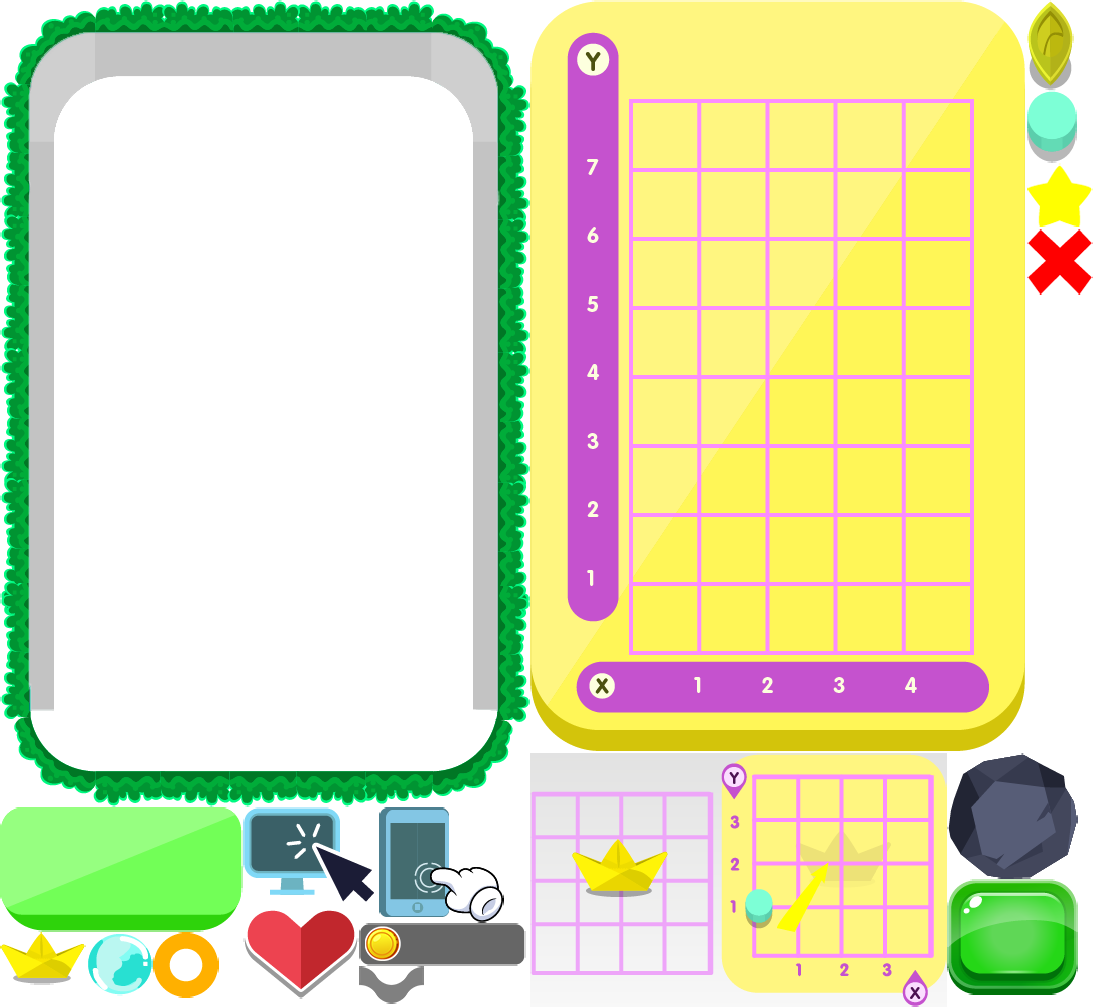
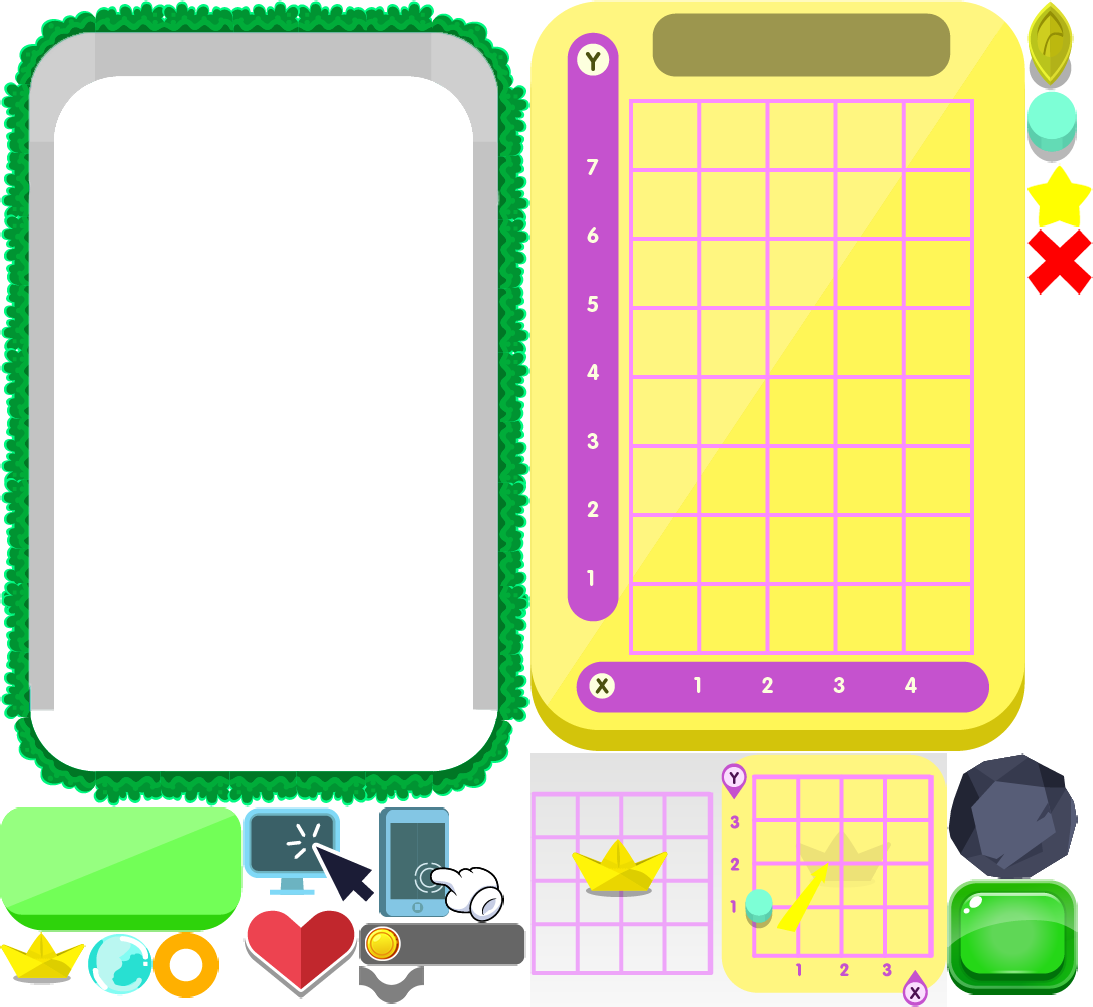
changes updated

Changed region(s): [[0.591, 0.0, 0.871, 0.0924]]

diff --git a/nonrefactored/paperShips/paperShips/js/scenes/paper.js b/nonrefactored/paperShips/paperShips/js/scenes/paper.js
@@ -663,6 +663,7 @@ var paper = function(){
 		var hide = game.add.tween(boardGroup).to({y:-game.world.height * 0.5}, 1200, Phaser.Easing.Cubic.Out, true, 300)
 		game.add.tween(boardGroup.alphaRect).to({alpha:0}, 1200, Phaser.Easing.Cubic.Out, true, 600)
 		hide.onComplete.add(startShoots)
+		boardGroup.text.alpha = 0
 	}
 	
 	function resetObject(object) {
@@ -684,6 +685,24 @@ var paper = function(){
 		game.add.tween(buttonGroup).to({alpha:0}, 500, Phaser.Easing.Cubic.Out, true)
 	}
 	
+	function showNumber(x, y) {
+		var cordText = boardGroup.text
+
+		var cordString = "(" + x + " , " + y + ")"
+		cordText.text = cordString
+
+		if(cordText.tween1){
+			cordText.tween1.stop()
+		}
+		if(cordText.tween2){
+			cordText.tween2.stop()
+		}
+		cordText.alpha = 0
+		cordText.scale.x = 1; cordText.scale.y = 1
+		cordText.tween1 = game.add.tween(cordText.scale).to({x:1.2, y:1.2}, 300, Phaser.Easing.Cubic.Out, true).yoyo(true)
+		cordText.tween2 = game.add.tween(cordText).to({alpha:1}, 600, Phaser.Easing.Cubic.Out, true)
+	}
+	
 	function pinchOnMap(circle) {
 		if(inputsEnabled){
 			if(!circle.token){
@@ -700,17 +719,32 @@ var paper = function(){
 					tokensInGame.push(token)
 					circle.token = token
 					token.circle = circle
-					game.add.tween(token.scale).to({x:1, y:1}, 400, Phaser.Easing.Back.Out, true)
-					game.add.tween(token).to({alpha:1}, 200, Phaser.Easing.Cubic.Out, true)
+					if(token.tween1)
+						token.tween1.stop()
+					if(token.tween2)
+						token.tween2.stop()
+
+					token.tween1 = game.add.tween(token.scale).to({x:1, y:1}, 400, Phaser.Easing.Back.Out, true)
+					token.tween2 = game.add.tween(token).to({alpha:1}, 200, Phaser.Easing.Cubic.Out, true)
+					var xIndex = circle.xIndex + 2
+					var yIndex = 7 - circle.yIndex
+					showNumber(xIndex, yIndex)
 				}
-			}else{
-				game.add.tween(circle.token.scale).to({x:0.4, y:0.4}, 200, Phaser.Easing.Back.Out, true)
+			}else if(circle.token){
+				var token = circle.token
+				if(token.tween1)
+					token.tween1.stop()
+				if(token.tween2)
+					token.tween2.stop()
+
+				token.tween1 = game.add.tween(circle.token.scale).to({x:0.4, y:0.4}, 200, Phaser.Easing.Back.Out, true)
 				var dissapear = game.add.tween(circle.token).to({alpha:0}, 200, Phaser.Easing.Cubic.Out, true)
 				dissapear.onComplete.add(resetObject)
+				token.tween2 = dissapear
 				removeToken(circle.token)
-				//tokensInGame.splice(circle.token.index, 1)
-				// tokenList.push(circle.token)
 				circle.token = null
+				var cordText = boardGroup.text
+				cordText.tween1 = game.add.tween(cordText).to({alpha:0}, 400, Phaser.Easing.Cubic.Out, true)
 			}
 			console.log(tokensInGame.length)
 			if((tokensInGame.length === numShips - boardGroup.correctCounter)&&(!boardGroup.button.inputEnabled))
@@ -739,6 +773,17 @@ var paper = function(){
 		board.y = -64
 		board.anchor.setTo(0.5, 0.5)
 		boardGroup.alphaRect = alphaRect
+
+		var x = 0, y = 0
+		var cordString = "(" + x + " , " + y + ")"
+		var fontStyle = {font: "50px VAGRounded", fontWeight: "bold", fill: "#ffffff", align: "center"}
+		var cordText = new Phaser.Text(sceneGroup.game, 0, 0, cordString, fontStyle)
+		cordText.anchor.setTo(0.5, 0.5)
+		boardGroup.text = cordText
+		boardGroup.add(cordText)
+		cordText.x = 20
+		cordText.y = -392
+		cordText.alpha = 0
 
 		var buttonGroup = game.add.group()
 		buttonGroup.y = 400
@@ -774,6 +819,8 @@ var paper = function(){
 			circle.alpha = 0
 			circle.x = x
 			circle.y = y
+			circle.xIndex = xIndex
+			circle.yIndex = yIndex
 			boardGroup.add(circle)
 			circle.index = circleIndex
 
